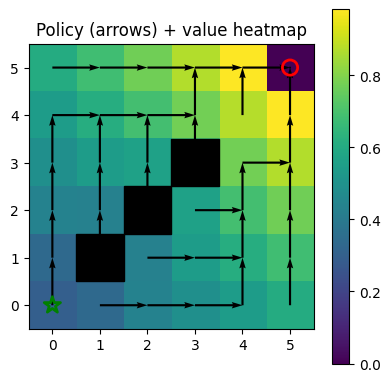
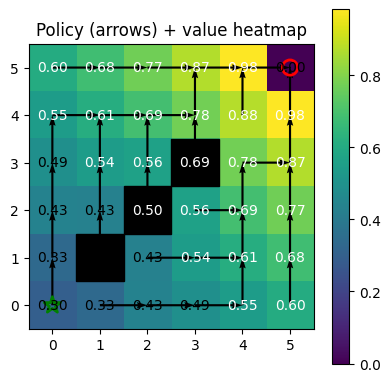
Added values of cells to heatmap visualizations

diff --git a/app.py b/app.py
@@ -209,6 +209,11 @@ def visualize_grid(rows, cols, obstacles_set, start, goal, values, policy, out_d
             mat[r, c] = values.get((r, c), 0.0)
 
     fig, ax = plt.subplots(figsize=(cols * 0.6 + 1, rows * 0.6 + 1))
+    # Add value text in each cell
+    for r in range(rows):
+        for c in range(cols):
+            val = values.get((r, c), 0.0)
+            ax.text(c, r, f"{val:.2f}", ha="center", va="center", color="white" if abs(val) > 0.5 else "black", fontsize=10)
     im = ax.imshow(mat, origin="lower", interpolation="nearest")
     ax.set_title("Value function heatmap")
     plt.colorbar(im, ax=ax)
@@ -218,7 +223,7 @@ def visualize_grid(rows, cols, obstacles_set, start, goal, values, policy, out_d
         ax.add_patch(rect)
     # mark start and goal
     ax.scatter([start[1]], [start[0]], marker="*", s=150, label="start", facecolors="none", edgecolors="green", linewidths=2)
-    ax.scatter([goal[1]], [goal[0]], marker="o", s=120, label="goal", facecolors="none", edgecolors="red", linewidths=2)
+    ax.scatter([goal[1]], [goal[0]], marker="o", s=120, label="goal", facecolors="none", edgecolors="red", linewidths=2)    
     ax.legend(loc="upper right")
     plt.savefig(os.path.join(out_dir, "value_heatmap.png"), bbox_inches="tight")
     plt.close(fig)
@@ -240,6 +245,11 @@ def visualize_grid(rows, cols, obstacles_set, start, goal, values, policy, out_d
                 V[r, c] = dc
 
     fig, ax = plt.subplots(figsize=(cols * 0.6 + 1, rows * 0.6 + 1))
+    # Show value in each cell as text (like in the value heatmap)
+    for r in range(rows):
+        for c in range(cols):
+            val = values.get((r, c), 0.0)
+            ax.text(c, r, f"{val:.2f}", ha="center", va="center", color="white" if abs(val) > 0.5 else "black", fontsize=10)
     im = ax.imshow(mat, origin="lower", interpolation="nearest")
     # overlay obstacles again
     for (r, c) in obstacles_set:
